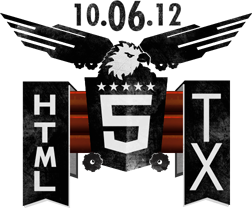
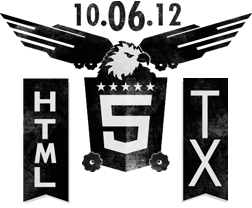
updating for new creative

diff --git a/public/stylesheets/screen.css b/public/stylesheets/screen.css
@@ -25,24 +25,29 @@ blockquote:before,blockquote:after,q:before,q:after{content:'';content:none;}
 pre,code,kbd,samp{font-family:"bello-pro";}
 a{color:#ffffff;}
 a:visited{color:#e6e6e6;}
-a:hover{color:#760202;}
+a:hover{color:#880202;}
 a:focus{outline:thin dotted;color:#ffffff;}
 a:hover,a:active{outline:0;}
+a.button{background:url(_img/button.gif) no-repeat top left;background-size:100% auto;width:100%;padding:15px 0 20px;max-width:220px;margin:0 auto;display:block;text-align:center;color:#880202;font-weight:800;text-decoration:none;line-height:0;}
+div.callout{background:url(_img/dark-grey-texture.jpg) repeat;padding:10px;margin:10px 0 ;color:#fff;}div.callout p{margin-bottom:10px;}
+div.callout b{font-weight:800;}
 .hide-on-phones{display:none;}
 @-webkit-keyframes rotate{0%{-webkit-transform:rotate(0deg);} 50%{-webkit-transform:rotate(180deg);} 100%{-webkit-transform:rotate(360deg);}}@-moz-keyframes rotate{0%{-moz-transform:rotate(0deg);} 50%{-moz-transform:rotate(180deg);} 100%{-moz-transform:rotate(360deg);}}.video-wrap{position:relative;padding-bottom:56.25%;padding-top:30px;height:0;overflow:hidden;}.video-wrap iframe,.video-wrap object,.video-wrap embed{position:absolute;top:0;left:0;width:100%;height:100%;}
 body{background:#000;font-size:14px;}
 #container{width:320px;display:block;position:relative;margin:0 auto;}
 header[role="main"]{background:url(_img/s/banner.jpg) no-repeat center top;width:100%;height:100px;background-size:cover;}header[role="main"] h1{width:1px;height:1px;overflow:hidden;font-size:0px;}
 header[role="main"] h2{text-align:center;font-size:2em;padding-top:60px;}header[role="main"] h2 big{font-size:1.5em;}
-nav[role="main"]{background:url(_img/s/red-orange-wing-l.png) top left no-repeat,url(_img/s/red-orange-wing-r.png) top right no-repeat,url(_img/s/red-orange-wing-tile.png) top right repeat-x;width:100%;height:70px;display:block;z-index:1;position:absolute;top:100px;}
-nav.footer{display:block;float:left;padding-bottom:10px;border-bottom:3px solid #2c2c2c;}nav.footer a{width:50%;display:block;float:left;text-align:center;color:#fff;text-decoration:none;text-transform:uppercase;font-weight:bold;padding:5px 0;}nav.footer a:hover{color:#760202;}
+nav[role="main"]{width:100%;height:70px;display:block;z-index:1;position:absolute;top:100px;}nav[role="main"] .left-set,nav[role="main"] .right-set{position:absolute;width:50%;height:80px;display:block;}
+nav[role="main"] .left-set{background:url(_img/s/nav-background.jpg) no-repeat top left;left:0;}
+nav[role="main"] .right-set{background:url(_img/s/nav-background.jpg) no-repeat top right;right:0;}
+nav.footer{display:block;float:left;padding-bottom:10px;border-bottom:3px solid #2c2c2c;}nav.footer a{width:50%;display:block;float:left;text-align:center;color:#fff;text-decoration:none;text-transform:uppercase;font-weight:bold;padding:5px 0;}nav.footer a:hover{color:#880202;}
 .bad-ass-war-eagle{background:url(_img/s/bad-ass-war-eagle.png) top center no-repeat;width:100%;height:300px;z-index:9;position:absolute;top:7px;z-index:99;}
 .cog{background:url(_img/s/cog.png) no-repeat left top;width:40px;height:40px;position:absolute;display:block;z-index:99;top:157px;left:50%;margin-left:-20px;z-index:9;-webkit-animation:rotate 5s infinite;-webkit-animation-timing-function:linear;}
-section.video-masthead{position:relative;top:80px;}
-section.social{position:relative;top:80px;display:block;}section.social .lower-logo,section.social a.blog,section.social .lower-cogs{width:100%;height:100px;background:url(_img/m/html5-lower-logo.jpg) no-repeat center center;background-size:auto 100%;margin-bottom:20px;width:100%;height:100px;display:block;position:relative;}
+section.masthead{position:relative;top:90px;}section.masthead .callout{padding:30px 15px 20px;}section.masthead .callout p{font-size:1.2em;text-align:center;}
+section.social{position:relative;top:80px;display:block;}section.social .lower-logo,section.social a.blog,section.social .lower-cogs{background:url(_img/m/html5-lower-logo.jpg) no-repeat center center;background-size:auto 100%;margin-bottom:20px;width:100%;height:100px;display:block;position:relative;}
 section.social a.blog{text-indent:-99999px;background:url(_img/m/read-blog.jpg) no-repeat center center;}
 section.social .lower-cogs{background:url(_img/m/lower-cogs.jpg) no-repeat center center;}section.social .lower-cogs .twitter,section.social .lower-cogs .facebook{text-indent:-99999px;width:50px;height:50px;display:block;position:absolute;left:110px;}
 section.social .lower-cogs .facebook{top:35px;left:160px;}
-footer[role="main"]{position:relative;display:block;top:120px;}footer[role="main"] .copyright,footer[role="main"] a.credit{display:block;width:100%;color:#fff;display:block;float:left;text-align:center;color:#fff;text-decoration:none;text-transform:uppercase;font-weight:bold;padding:10px 0;}
+footer[role="main"]{position:relative;display:block;top:120px;}footer[role="main"] .copyright,footer[role="main"] a.credit{width:100%;display:block;float:left;text-align:center;color:#fff;text-decoration:none;text-transform:uppercase;font-weight:bold;padding:10px 0;}
 footer[role="main"] .bar{height:3px;width:100%;display:block;float:left;background:#2c2c2c;}
-@media only screen and (min-width:480px){#container{width:480px;} section.social .lower-logo,section.social a.blog{width:48%;float:left;background-size:100% auto;} section.social .lower-logo{margin-right:4%;} section.social .lower-cogs{width:100%;float:left;} section.social .lower-cogs .twitter{left:191px;} section.social .lower-cogs .facebook{left:243px;} footer[role="main"] .copyright,footer[role="main"] a.credit,footer[role="main"] .bar{width:33.33%;} footer[role="main"] .bar{margin-top:20px;}}@media only screen and (min-width:600px){#container{width:600px;} header[role="main"]{height:200px;background:url(_img/m/header.jpg) no-repeat center top;} nav[role="main"]{top:200px;} .bad-ass-war-eagle{top:107px;background:url(_img/s/bad-ass-war-eagle.png) top center no-repeat;} .cog{top:255px;} section.social .lower-logo,section.social a.blog,section.social .lower-cogs{width:30%;} section.social .lower-logo,section.social a.blog{margin-right:5%;} nav.footer a{width:25%;} footer[role="main"] .copyright,footer[role="main"] a.credit{width:37.5%;} footer[role="main"] .bar{width:21%;margin:15px 2%;}}@media only screen and (min-width:768px){#container{width:768px;} .hide-on-phones{display:block;} nav[role="main"]{background:url(_img/m/red-orange-wing-r.png) top left no-repeat,url(_img/m/red-orange-wing-l.png) top right no-repeat;height:137px;top:261px;}nav[role="main"] .silver-nav{position:absolute;top:-62px;height:90px;width:100%;}nav[role="main"] .silver-nav .left-set,nav[role="main"] .silver-nav .right-set{background:url(_img/l/silver-nav.png) left top no-repeat;width:50%;position:absolute;height:90px;display:block;float:left;}nav[role="main"] .silver-nav .left-set a,nav[role="main"] .silver-nav .right-set a{color:#000;text-transform:uppercase;font-weight:bold;}nav[role="main"] .silver-nav .left-set a:hover,nav[role="main"] .silver-nav .right-set a:hover{color:#760202;} nav[role="main"] .silver-nav .right-set{background:url(_img/l/silver-nav.png) right top no-repeat;float:right;right:0;} .bad-ass-war-eagle{background:url(_img/l/bad-ass-war-eagle.png) top center no-repeat;height:420px;top:78px;width:504px;left:50%;margin-left:-252px;}}@media only screen and (min-width:992px){}@media only screen and (min-width:1280px){}@media only screen and (min-width:1382px){}@media only screen and (-webkit-min-device-pixel-ratio:1.5){body{outline:1px solid red;width:100%;}}
+@media only screen and (min-width:480px){#container{width:480px;} section.social .lower-logo,section.social a.blog{width:48%;float:left;background-size:100% auto;} section.social .lower-logo{margin-right:4%;} section.social .lower-cogs{width:100%;float:left;} section.social .lower-cogs .twitter{left:191px;} section.social .lower-cogs .facebook{left:243px;} footer[role="main"] .copyright,footer[role="main"] a.credit,footer[role="main"] .bar{width:33.33%;} footer[role="main"] .bar{margin-top:20px;}}@media only screen and (min-width:600px){#container{width:600px;} header[role="main"]{height:200px;background:url(_img/m/header.jpg) no-repeat center top;} nav[role="main"]{top:200px;} .bad-ass-war-eagle{top:107px;background:url(_img/s/bad-ass-war-eagle.png) top center no-repeat;} .cog{top:255px;} section.social .lower-logo,section.social a.blog,section.social .lower-cogs{width:30%;} section.social .lower-logo,section.social a.blog{margin-right:5%;} nav.footer a{width:25%;} footer[role="main"] .copyright,footer[role="main"] a.credit{width:37.5%;} footer[role="main"] .bar{width:21%;margin:15px 2%;}}@media only screen and (min-width:768px){#container{width:768px;} .hide-on-phones{display:block;} nav[role="main"]{background:url(_img/m/red-orange-wing-r.png) top left no-repeat,url(_img/m/red-orange-wing-l.png) top right no-repeat;height:137px;top:261px;}nav[role="main"] .silver-nav{position:absolute;top:-62px;height:90px;width:100%;}nav[role="main"] .silver-nav .left-set,nav[role="main"] .silver-nav .right-set{background:url(_img/l/silver-nav.png) left top no-repeat;width:50%;position:absolute;height:90px;display:block;float:left;}nav[role="main"] .silver-nav .left-set a,nav[role="main"] .silver-nav .right-set a{color:#000;text-transform:uppercase;font-weight:bold;}nav[role="main"] .silver-nav .left-set a:hover,nav[role="main"] .silver-nav .right-set a:hover{color:#880202;} nav[role="main"] .silver-nav .right-set{background:url(_img/l/silver-nav.png) right top no-repeat;float:right;right:0;} .bad-ass-war-eagle{background:url(_img/l/bad-ass-war-eagle.png) top center no-repeat;height:420px;top:78px;width:504px;left:50%;margin-left:-252px;}}@media only screen and (min-width:992px){}@media only screen and (min-width:1280px){}@media only screen and (min-width:1382px){}@media only screen and (-webkit-min-device-pixel-ratio:1.5){body{outline:1px solid red;width:100%;}}

diff --git a/public/index.html b/public/index.html
@@ -51,16 +51,20 @@
 </header>
 
 <nav role="main">
-    <div class="silver-nav hide-on-phones">
+    <div class="silver-nav">
         <div class="left-set">
-            <a href="#">abt</a>
-            <a href="#">spkrs</a>
-            <a href="#">schdl</a>
+            <div class="hide-on-phones">
+                <a href="#">abt</a>
+                <a href="#">spkrs</a>
+                <a href="#">schdl</a>
+            </div>
         </div>
         <div class="right-set">
-            <a href="#">rsrcs</a>
-            <a href="#">vds</a>
-            <a href="#">contct</a>
+            <div class="hide-on-phones">
+                <a href="#">rsrcs</a>
+                <a href="#">vds</a>
+                <a href="#">contct</a>
+            </div>
         </div>
     </div>
 </nav>
@@ -71,12 +75,20 @@
 <!-- .cog -->
 
 <div role="main" id="wrapper">
-    <section class="video-masthead">
-        <div class="video-wrap">
-            <iframe src="http://player.vimeo.com/video/36094284?title=0&amp;byline=0&amp;portrait=0&amp;color=F16529" width="400" height="300" frameborder="0" webkitAllowFullScreen mozallowfullscreen allowFullScreen></iframe>
+    <section class="masthead">
+        <div class="callout">
+            <p>With over 150 sessions to choose from, your head will eventually start to overheat. Cool off in one of the many nearby pools, because unlike your traditional technology conference, you will be camping at a giant indoor waterpark. This conference will pwn face.</p>
+            <a href="#" class="button">JOIN</a>
+        </div>
+
+        <div class="callout">
+            <p><b>HTML5.TX</b></p>
+            <p><b>October 06, 2012</b></p>
+            <p><b>AUSTIN, TEXAS</b></p>
+            <p>A web conference for awesome people.</p>
+            <a href="#" class="button">Sponsor</a>
         </div>
     </section>
-    <!-- .video-masthead -->
     <section class="social">
         <div class="lower-logo"></div>
         <a class="blog" target="_blank" href="#">Read The Blog</a>

diff --git a/public/stylesheets/_less/_styles/site.less b/public/stylesheets/_less/_styles/site.less
@@ -95,13 +95,24 @@ header{
 nav{
 	
 	&[role="main"]{
-		background:url(_img/s/red-orange-wing-l.png) top left no-repeat, url(_img/s/red-orange-wing-r.png) top right  no-repeat, url(_img/s/red-orange-wing-tile.png) top right repeat-x ;
 		width:100%;
 		height:70px;
 		display:block;
 		z-index:1;
 		position:absolute;
-		top:100px
+		top:100px;
+
+		.left-set, .right-set{ 
+			position:absolute;
+			width:50%;
+			height:80px;
+			display:block; 
+		}
+
+		.left-set{background:url(_img/s/nav-background.jpg) no-repeat top left; left:0;}
+		.right-set{background:url(_img/s/nav-background.jpg) no-repeat top right; right:0;}
+		
+
 	}
 	
 	&.footer{
@@ -157,9 +168,19 @@ nav{
 
 // 5 - sections
 section{
-	&.video-masthead{
+	&.masthead{
 		position:relative;
-		top:80px;
+		top:90px;
+
+		.callout{
+			padding:30px 15px 20px;
+
+			p{
+				font-size:1.2em;
+				text-align:center;
+			}
+		}
+
 	}//.video-masthead
 	
 	&.social{

diff --git a/public/stylesheets/_less/styleguide.less b/public/stylesheets/_less/styleguide.less
@@ -15,6 +15,7 @@
 // 6 - lists
 // 7 - tables
 // 8 - buttons
+// 9 - callouts
 
 
 @font-face { font-family: Futura; src: url('_fonts/FuturaStd-Medium.otf'); } 
@@ -115,6 +116,37 @@ table{
 
 a.button{
 	
+	background:url(_img/button.gif) no-repeat top left;
+	background-size:100% auto;
+	width:100%;
+	padding:15px 0 20px;
+	max-width:220px;
+	margin:0 auto;
+	display:block;
+	text-align: center;
+	color:@red;
+	font-weight:800;
+	text-decoration: none;
+	line-height:0;
+
 	&.primary{}
 	&.cta{}
+}
+
+// 9 - callouts
+
+div.callout{
+	background:url(_img/dark-grey-texture.jpg) repeat;
+	padding:10px;
+	margin:10px 0 ;
+	color:#fff;
+
+	p{
+		margin-bottom:10px;
+	}
+
+	b{
+		font-weight:800;
+	}
+
 }

diff --git a/public/stylesheets/_less/colors.less b/public/stylesheets/_less/colors.less
@@ -18,7 +18,7 @@
 
 // site
 
-@red:#760202;
+@red:#880202;
 @green:#5abc3c;
 @blue:#297fcf;
 @orange:#d98212;
